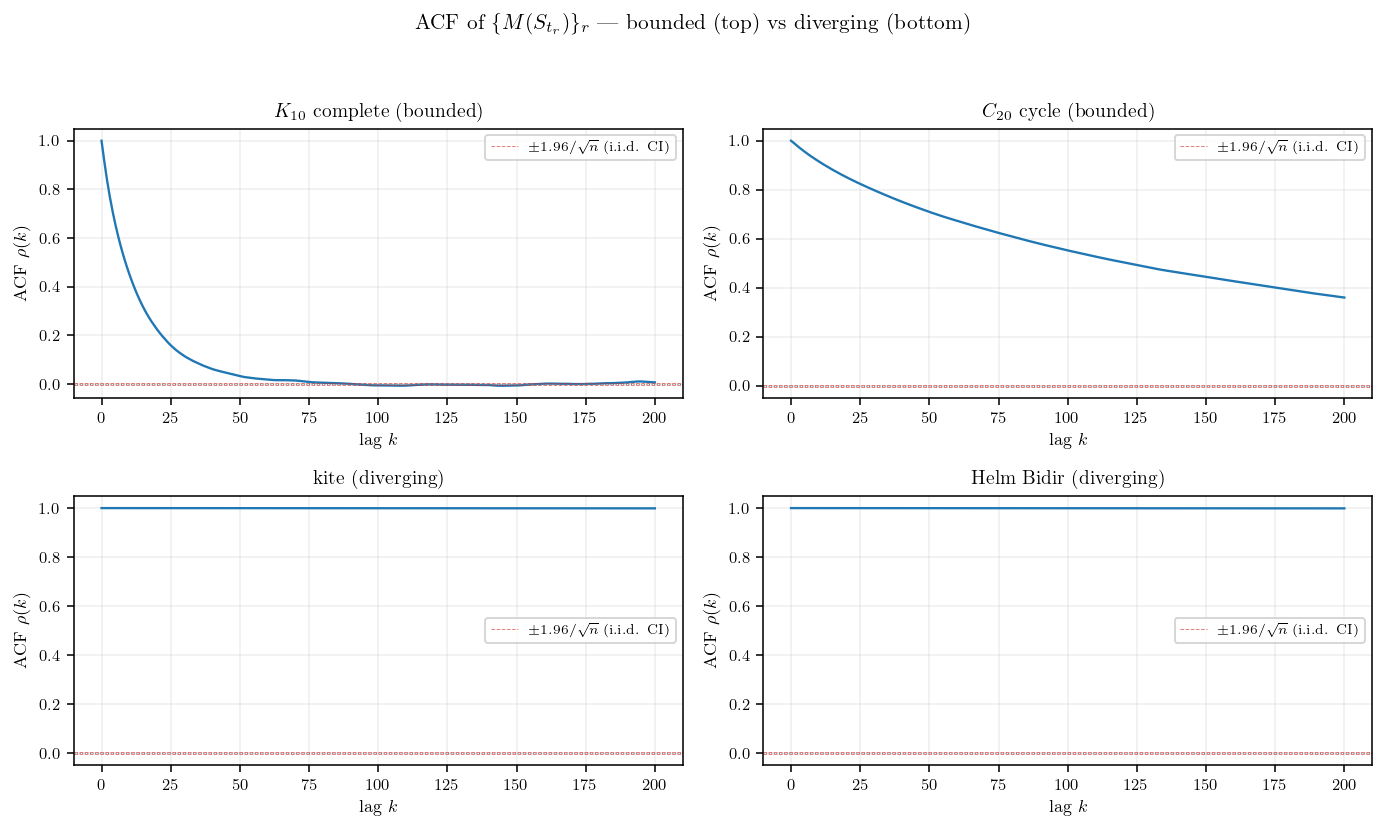
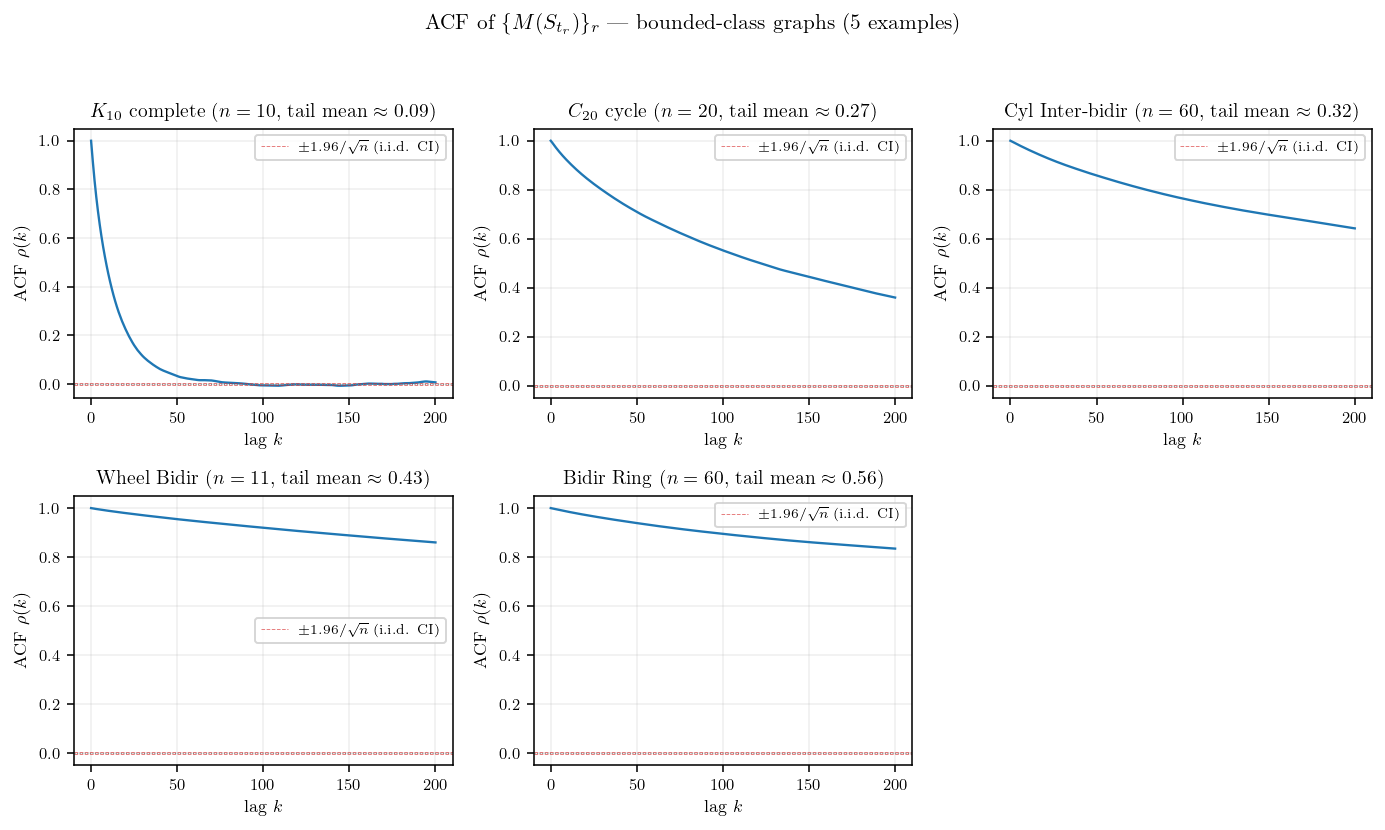
update: Foster 의심 — bounded class 5 그래프로 ACF/tightness 재구성

diff --git a/docs/Posts/260522_31c9e5.html b/docs/Posts/260522_31c9e5.html
@@ -226,19 +226,19 @@ window.Quarto = {
 <p>에이의 ABC 통합증명 PDF §3.4 의 Foster’s drift criterion (Assumption 1) 이 그래프와 파라미터에 따라 실제로 잘 성립하는지 실험으로 본다. 본 글은 (B) 실험 결과 공유용으로 판정하고 §2.6/§2.7 적용 면제로 진행한다.</p>
 <p><img src="attachments/260522_31c9e5_02.png" class="img-fluid"></p>
 <p>그래프 클래스에 따라 <span class="math inline">\(M(S_{t_r})\)</span> 시계열이 두 종류로 명확히 나뉜다. fully symmetric (Cycle, Complete, Ring, Cylinder bidir) 은 시계열이 작은 상수 (∼ 1) 부근에서 흔들리는 bounded process — height range 가 시간이 흘러도 일정 scale 위로 안 커진다. 반대로 비대칭 그래프 (kite, Helm Bidir, Star Outward, <span class="math inline">\(C_{60}\)</span>+pendant 등) 는 시계열이 round 가 진행할수록 거의 선형으로 발산 — height range 가 무한히 커진다.</p>
-<p>수열 <span class="math inline">\(\{M(S_{t_r})\}_r\)</span> 자체의 성질이 궁금하다. 독립인가, correlated 인가, mixing 인가, 확률적 유계 (<span class="math inline">\(O_p(1)\)</span>) 인가, tight 인가? 대표 4 그래프 (bounded 2 — <span class="math inline">\(K_{10}\)</span>, <span class="math inline">\(C_{20}\)</span> + 발산 2 — kite, Helm Bidir) 에 두 진단을 적용한다.</p>
+<p>수열 <span class="math inline">\(\{M(S_{t_r})\}_r\)</span> 자체의 성질이 궁금하다. 독립인가, correlated 인가, mixing 인가, 확률적 유계 (<span class="math inline">\(O_p(1)\)</span>) 인가, tight 인가? 발산 class 는 <span class="math inline">\(M_r\)</span> 자체가 round 따라 발산이라 진단의 답이 자명 (mixing X, tight X, <span class="math inline">\(M_r = \Theta_p(r)\)</span>) — 흥미는 bounded class 안에서 어떻게 갈리는지에 있다. bounded 5 그래프 (<span class="math inline">\(K_{10}\)</span>, <span class="math inline">\(C_{20}\)</span>, Cyl Inter-bidir, Wheel Bidir, Bidir Ring) 에 두 진단을 적용한다.</p>
 <p><img src="attachments/260522_31c9e5_03.png" class="img-fluid"></p>
-<p>sample autocorrelation <span class="math inline">\(\rho(k) := \mathrm{Corr}(M_r, M_{r+k})\)</span> — i.i.d. 이면 lag 1 부터 <span class="math inline">\(\pm 1.96/\sqrt{n}\)</span> 신뢰구간 안. <span class="math inline">\(K_{10}\)</span> 은 lag 1 에서 <span class="math inline">\(\rho \approx 0.92\)</span> 로 강하게 양상관이지만 lag 100 부근부터 0 으로 수렴 — short-range correlated, 결국 mixing. <span class="math inline">\(C_{20}\)</span> 은 lag 100 에서도 <span class="math inline">\(\rho \approx 0.55\)</span> 로 mixing 이 느리다. 발산 두 그래프는 lag 200 까지도 <span class="math inline">\(\rho \approx 1\)</span> — 거의 deterministic trajectory 처럼 round 따라 monotone 증가, 본질적으로 mixing 이 없는 상태.</p>
+<p>sample autocorrelation <span class="math inline">\(\rho(k) := \mathrm{Corr}(M_r, M_{r+k})\)</span> — i.i.d. 이면 lag 1 부터 <span class="math inline">\(\pm 1.96/\sqrt{n}\)</span> 신뢰구간 안. bounded class 5 그래프 모두 lag-1 ACF <span class="math inline">\(\rho(1) \in [0.92, 0.999]\)</span> — 강 양상관, 명백히 독립이 아니다. mixing 속도는 그래프마다 차이가 크다. <span class="math inline">\(K_{10}\)</span> 은 lag 100 부근에서 <span class="math inline">\(\rho \approx 0\)</span> 으로 수렴 — 짧은 lag 안에 mixing. <span class="math inline">\(C_{20}\)</span> 은 lag 100 에서도 <span class="math inline">\(\rho \approx 0.55\)</span>, Cyl Inter-bidir 는 <span class="math inline">\(\rho \approx 0.76\)</span>, Wheel Bidir·Bidir Ring 은 <span class="math inline">\(\rho \approx 0.9\)</span> 로 mixing 이 매우 느리다 — 같은 bounded class 안에서도 mixing speed 는 <span class="math inline">\(K_{10}\)</span> 만 빠르고 나머지는 long-range correlated.</p>
 <p><img src="attachments/260522_31c9e5_04.png" class="img-fluid"></p>
-<p>각 그래프의 round 구간 100 bin 으로 나눠 bin 별 5/50/95 quantile band + running max. bounded class (<span class="math inline">\(K_{10}\)</span>, <span class="math inline">\(C_{20}\)</span>) 는 모든 quantile 이 후미에서 plateau, running max 도 빠르게 안정 — marginal 분포가 stationary 라 <span class="math inline">\(\sup_r \mathbb{P}(M_r &gt; K) \to 0\)</span> as <span class="math inline">\(K \to \infty\)</span>, 즉 tight (<span class="math inline">\(O_p(1)\)</span>). 발산 class (kite, Helm Bidir) 는 median 부터 95% quantile 까지 모두 round 따라 선형 증가, running max 도 끊임없이 자란다 — marginal 분포가 round 따라 right-shift, tight 도 <span class="math inline">\(O_p(1)\)</span> 도 아니고 <span class="math inline">\(M_r = \Theta_p(r)\)</span>.</p>
+<p>각 그래프의 round 구간 100 bin 으로 나눠 bin 별 5/50/95 quantile band + running max. bounded class 5 그래프 모두 quantile band 가 후미에서 일정 range 안에서 흔들리고, running max 도 작은 절대값 (≤ 2.2) 안에서 잡혀 있다. marginal 분포가 round 따라 right-shift 하지 않으니 <span class="math inline">\(\sup_r \mathbb{P}(M_r &gt; K) \to 0\)</span> as <span class="math inline">\(K \to \infty\)</span>, 즉 <strong>모두 tight (<span class="math inline">\(O_p(1)\)</span>)</strong>.</p>
 <table class="caption-top table">
 <thead>
 <tr class="header">
 <th>그래프</th>
 <th>lag-1 ACF</th>
 <th>lag-100 ACF</th>
+<th><span class="math inline">\(M\)</span> tail mean</th>
 <th>tight?</th>
-<th><span class="math inline">\(M_r\)</span> 의 order</th>
 </tr>
 </thead>
 <tbody>
@@ -246,33 +246,40 @@ window.Quarto = {
 <td><span class="math inline">\(K_{10}\)</span></td>
 <td><span class="math inline">\(0.92\)</span></td>
 <td><span class="math inline">\(-0.01\)</span></td>
+<td><span class="math inline">\(0.09\)</span></td>
 <td>yes</td>
-<td><span class="math inline">\(O_p(1)\)</span></td>
 </tr>
 <tr class="even">
 <td><span class="math inline">\(C_{20}\)</span></td>
 <td><span class="math inline">\(0.99\)</span></td>
 <td><span class="math inline">\(0.55\)</span></td>
-<td>borderline</td>
-<td><span class="math inline">\(O_p(1)\)</span> likely</td>
+<td><span class="math inline">\(0.27\)</span></td>
+<td>yes</td>
 </tr>
 <tr class="odd">
-<td>kite</td>
-<td><span class="math inline">\(1.00\)</span></td>
-<td><span class="math inline">\(1.00\)</span></td>
-<td>no</td>
-<td><span class="math inline">\(\Theta_p(r)\)</span></td>
+<td>Cyl Inter-bidir</td>
+<td><span class="math inline">\(0.997\)</span></td>
+<td><span class="math inline">\(0.76\)</span></td>
+<td><span class="math inline">\(0.32\)</span></td>
+<td>yes</td>
 </tr>
 <tr class="even">
-<td>Helm Bidir</td>
-<td><span class="math inline">\(1.00\)</span></td>
-<td><span class="math inline">\(1.00\)</span></td>
-<td>no</td>
-<td><span class="math inline">\(\Theta_p(r)\)</span></td>
+<td>Wheel Bidir</td>
+<td><span class="math inline">\(0.999\)</span></td>
+<td><span class="math inline">\(0.92\)</span></td>
+<td><span class="math inline">\(0.43\)</span></td>
+<td>yes</td>
+</tr>
+<tr class="odd">
+<td>Bidir Ring</td>
+<td><span class="math inline">\(0.999\)</span></td>
+<td><span class="math inline">\(0.89\)</span></td>
+<td><span class="math inline">\(0.56\)</span></td>
+<td>yes</td>
 </tr>
 </tbody>
 </table>
-<p>질문에 답을 정리하면: <span class="math inline">\(\{M_r\}\)</span> 은 <strong>모든 그래프에서 독립이 아니다</strong> (lag-1 ACF <span class="math inline">\(\ge 0.92\)</span>). bounded class 에서는 short-range correlated + mixing (Markov-like), 발산 class 에서는 ACF 가 lag 100 까지 1 부근으로 본질적으로 deterministic-like trajectory. <strong><span class="math inline">\(O_p(1)\)</span> / tight 여부는 그래프 클래스에 따라 갈린다</strong> — bounded class 만 tight, 발산 class 는 <span class="math inline">\(r\)</span> 의 함수로 자라 tight 가 아니다.</p>
+<p>질문에 답을 정리하면: bounded class 안에서 <span class="math inline">\(\{M_r\}\)</span> 은 <strong>모두 강하게 correlated</strong> (lag-1 ACF <span class="math inline">\(\ge 0.92\)</span>, 독립 아님), mixing 속도는 그래프별 차이가 크지만 (<span class="math inline">\(K_{10}\)</span> 빠르게 mixing, 나머지 long-range correlated) 결국 모두 stationary 분포 위 — <strong>tight, <span class="math inline">\(O_p(1)\)</span></strong>. 발산 class 는 본 진단 적용 대상 밖이고 시계열 figure 가 그대로 답이다.</p>
 <p>Foster’s drift criterion (Assumption 1) 은 어떤 graph-level constant <span class="math inline">\(\varepsilon_B &gt; 0\)</span>, <span class="math inline">\(C_B \ge 0\)</span> 가 존재해서 모든 round 에서</p>
 <p><span class="math display">\[B(S_{t_r}) \;\le\; -\varepsilon_B\, M(S_{t_r}) + C_B\]</span></p>
 <p>가 성립하길 요구하는데, 여기서 <span class="math inline">\(B(S_{t_r}) = \sum_u \pi(u, S_{t_r}) \hbar(u, t_r)\)</span> 는 round 시작 시점의 weighted height deposit (Lemma 3 정의), <span class="math inline">\(\pi(u, S) = \mathbb{E}[\#_u | S_{t_r}]\)</span> 는 round 길이 동안 노드 <span class="math inline">\(u\)</span> 의 visit count 의 조건부 기댓값이다. 이 가정의 핵심 함의는 결국 height range <span class="math inline">\(M(t)\)</span> 가 시간 흐름에서 bounded 라는 것이다 — <span class="math inline">\(\varepsilon_B &gt; 0\)</span> 가 작동하면 큰 <span class="math inline">\(M\)</span> 에서 음의 drift 가 작용해 <span class="math inline">\(M\)</span> 이 다시 작아져 stationary 분포 위에 머문다 (positive Harris recurrence). 가정이 깨지면 <span class="math inline">\(M\)</span> 이 발산. 그러니 <span class="math inline">\(M\)</span> 시계열의 long-run behavior 가 가정의 진짜 의미를 직접 보여준다 — 위 figure 가 그 자체로 Assumption 1 의 graph-별 검증이다.</p>
